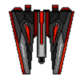
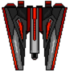
feat: set up shooter alien ship

diff --git a/spaceinvaders/src/model/aliens/ships/ShooterEnemy.cs b/spaceinvaders/src/model/aliens/ships/ShooterEnemy.cs
@@ -1,0 +1,56 @@
+using Microsoft.Xna.Framework;
+using Microsoft.Xna.Framework.Content;
+using Microsoft.Xna.Framework.Graphics;
+using MonoGame.Extended;
+using MonoGame.Extended.Collisions;
+
+public class ShooterEnemy : IEnemyEntity
+{
+    public IShapeF Bounds { get; }
+
+    private readonly GraphicsDeviceManager _graphics;
+    private readonly SpriteBatch _spriteBatch;
+    private readonly Texture2D _texture;
+    private bool isDead = false;
+
+    public ShooterEnemy(ContentManager contentManager, SpriteBatch spriteBatch, GraphicsDeviceManager graphics, int x) {
+        Texture2D texture = contentManager.Load<Texture2D>("aliens/shooter-alien-ship");
+        _graphics = graphics;
+        _texture = texture;
+
+        int height = 200;
+        int width = x - texture.Width / 2;
+        Vector2 position = new(width, height);
+        Bounds = new RectangleF(position, new Size2(texture.Width, texture.Height));
+
+        _spriteBatch = spriteBatch;
+    }
+
+    public bool IsDead()
+    {
+        return isDead;
+    }
+
+    public void OnCollision(CollisionEventArgs collisionInfo)
+    {
+        isDead = true;
+    }
+
+    public void Update()
+    {
+        
+    }
+
+    public void Draw()
+    {
+        _spriteBatch.Draw(
+            _texture,
+            Bounds.Position,
+            Color.White
+        );
+    }
+
+    public void IncreaseX(int value) {
+        Bounds.Position += new Vector2(value, 0);
+    }
+}

diff --git a/spaceinvaders/src/model/aliens/AlienQueue.cs b/spaceinvaders/src/model/aliens/AlienQueue.cs
@@ -7,9 +7,9 @@ public class AlienQueue : Entity
     public IShapeF Bounds { get; }
     private readonly List<IEnemyEntity> enemies = new();
 
-    public void Draw()
+    public void Update()
     {
-        throw new System.NotImplementedException();
+        
     }
 
     public void OnCollision(CollisionEventArgs collisionInfo)
@@ -17,8 +17,9 @@ public class AlienQueue : Entity
         throw new System.NotImplementedException();
     }
 
-    public void Update()
+    public void Draw()
     {
         throw new System.NotImplementedException();
     }
+
 }

diff --git a/spaceinvaders/src/screen-logic/screens/PlayScreen.cs b/spaceinvaders/src/screen-logic/screens/PlayScreen.cs
@@ -4,6 +4,7 @@ using Microsoft.Xna.Framework;
 using Microsoft.Xna.Framework.Content;
 using Microsoft.Xna.Framework.Graphics;
 using MonoGame.Extended;
+using MonoGame.Extended.ViewportAdapters;
 
 public class PlayScreen : GameScreenModel
 {
@@ -25,6 +26,7 @@ public class PlayScreen : GameScreenModel
 
     public override void Initialize() {
         base.Initialize();
+        enemies.Add(new ShooterEnemy(_contentManager, _spriteBatch, _graphics, 0));
     }
 
     public override void LoadContent() {

diff --git a/spaceinvaders/src/model/aliens/ships/RedEnemy.cs b/spaceinvaders/src/model/aliens/ships/RedEnemy.cs
@@ -25,7 +25,7 @@ public class RedEnemy : IEnemyEntity
 
         isRightOrLeft = random.Next(0, 2);
 
-        int height = 10;
+        int height = 30;
         int widthInitialLocation = isRightOrLeft == 0 ? -50 : _graphics.PreferredBackBufferWidth + 50;
         int width = widthInitialLocation - texture.Width / 2;
         Vector2 position = new(width, height);
